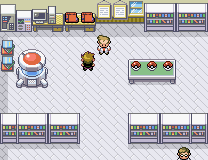
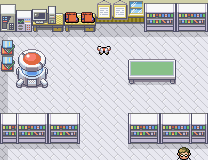
add oak with pokemon, reset oaks lab if it loses focus, update and animate pokeballs, fix js that doesn't run in browsersource

diff --git a/src/pokemon/Pokeballs.jsx b/src/pokemon/Pokeballs.jsx
@@ -1,4 +1,4 @@
-import React, {useState, useEffect} from 'react';
+import React, {useState, useEffect, useRef} from 'react';
 import styled from 'styled-components';
 import PokemonFusion from './PokemonFusion';
 import { getUniqueStarters } from './FusionHelpers';
@@ -16,6 +16,26 @@ const ClicksOuter = styled.div`
 `;
 const Pokeball = styled.div`
   width: 33%;
+  display: flex;
+  justify-content: center;
+  user-select: none;
+  user-drag: none;
+`;
+const PokeballImage = styled.img`
+  object-fit: cover;
+  width: 55px;
+  height: 100%;
+  filter: blur(1px);
+  user-drag: none;
+  &.open{
+    object-position: right;
+  }
+  &.closed{
+    object-position: left;
+  }
+  &.opening{
+    object-position: center;
+  }
 `;
 
 
@@ -36,6 +56,9 @@ function Pokeballs(props){
   const [audio2, setAudio2] = useState(null);
   const [audio3, setAudio3] = useState(null);
   const [curSelection, setCurSelection] = useState(null);
+  const _pokeball1 = useRef(null);
+  const _pokeball2 = useRef(null);
+  const _pokeball3 = useRef(null);
   useEffect(() => {
     setMyStarters(getUniqueStarters());
   }, [])
@@ -47,37 +70,76 @@ function Pokeballs(props){
     setAudio3(new Audio(`./fused/${myStarters[2].pkmn1}/${myStarters[2].pkmn1}.${myStarters[2].pkmn2}.mp3`));
   }, [myStarters])
 
+  function animatePokeball(pokeballRef, direction){
+    const pokeball = pokeballRef.current;
+    const curOpenState = pokeball.classList.contains('closed') ? 'closed' : 'open';
+    if( (direction === 'closed' && curOpenState === 'closed') || (direction === 'open' && curOpenState === 'open') ){
+      return;
+    } else {
+      pokeball.classList.add('opening');
+      setTimeout(function() { 
+        if (pokeball.classList.contains('closed')){
+          pokeball.classList.remove('closed');
+          pokeball.classList.remove('opening');
+          pokeball.classList.add('open');
+        }
+        else {
+          pokeball.classList.remove('opening');
+          pokeball.classList.remove('open');
+          pokeball.classList.add('closed');
+        }
+      }, 100);
+    }
+
+  }
+
   function toggleStarters(selection){
     if(selection === 1){
       setCurSelection(1);
       if(starter1Showing){
-        setStarter1Showing(false)
+        setStarter1Showing(false);
+        animatePokeball(_pokeball1, 'closed');
       } else {
-        setStarter1Showing(true)
+        setStarter1Showing(true);
+        animatePokeball(_pokeball1, 'open');
         audio1.play();
       }
       setStarter2Showing(false);
+      animatePokeball(_pokeball2, 'closed');
+
       setStarter3Showing(false);
+      animatePokeball(_pokeball3, 'closed');
     }
     if(selection === 2){
       setCurSelection(2);
       setStarter1Showing(false);
+      animatePokeball(_pokeball1, 'closed');
       if(starter2Showing){
-        setStarter2Showing(false)
+        setStarter2Showing(false);
+        animatePokeball(_pokeball2, 'closed');
       } else {
+        animatePokeball(_pokeball2, 'open');
         setStarter2Showing(true)
         audio2.play();
       }
       setStarter3Showing(false);
+      animatePokeball(_pokeball3, 'closed');
     }
     if(selection === 3){
       setCurSelection(3);
+
       setStarter1Showing(false);
+      animatePokeball(_pokeball1, 'closed');
+
       setStarter2Showing(false);
+      animatePokeball(_pokeball2, 'closed');
+
       if(starter3Showing){
-        setStarter3Showing(false)
+        setStarter3Showing(false);
+        animatePokeball(_pokeball3, 'closed');
       } else {
         setStarter3Showing(true)
+        animatePokeball(_pokeball3, 'open');
         audio3.play();
       }
     }
@@ -85,9 +147,9 @@ function Pokeballs(props){
   
   return(
     <ClicksOuter>
-      <Pokeball onClick={() =>  toggleStarters(1)}/>
-      <Pokeball onClick={() =>  toggleStarters(2)}/>
-      <Pokeball onClick={() =>  toggleStarters(3)}/>
+      <Pokeball onClick={() =>  toggleStarters(1)}><PokeballImage ref={_pokeball1} className="closed" src="/images/pokeball.png " /></Pokeball>
+      <Pokeball onClick={() =>  toggleStarters(2)}><PokeballImage ref={_pokeball2} className="closed" src="/images/pokeball.png " /></Pokeball>
+      <Pokeball onClick={() =>  toggleStarters(3)}><PokeballImage ref={_pokeball3} className="closed" src="/images/pokeball.png " /></Pokeball>
       <PokemonOuter>
         {(starter1Showing || starter2Showing || starter3Showing) && <PokedexH pkmn1={myStarters[curSelection-1].pkmn1} pkmn2={myStarters[curSelection-1].pkmn2}/>}
         {starter1Showing && <PokemonFusion pkmn1={myStarters[0].pkmn1} pkmn2={myStarters[0].pkmn2} /> }

diff --git a/src/App.jsx b/src/App.jsx
@@ -38,6 +38,7 @@ const PokemonOuter = styled.div`
 function App() {
   const obs = new ObsWebSocket();
   const [activeScene, setActiveScene] = useState(null)
+  const [oakWithPkmn, setOakWithPkmn] = useState(false);
 
   useEffect(() => {
     obs.connect({
@@ -57,11 +58,19 @@ function App() {
     });
   }, [])
 
+  useEffect(() => {
+    if(activeScene == 'OakIntroPkmn'){
+      setOakWithPkmn(true);
+    } else {
+      setOakWithPkmn(false);
+    }
+  }, [activeScene])
+
   return (
     <PokemonOuter className="App">
-      {activeScene == 'OakIntro' && <Intro />}
-      <Pokeballs />
-      <div className="bg"><img src="/images/oakslab.png" alt="" /></div>
+      {(activeScene == 'OakIntro'  || activeScene === 'OakIntroPkmn' || activeScene === 'OakIntro-Zoom') && <Intro withPkmn={oakWithPkmn}/>}
+      {activeScene ==='OaksLab' && <Pokeballs />}
+      <div draggable="false" className="bg"><img src="/images/oakslab.png" alt="" /></div>
     </PokemonOuter>
   );
 }

diff --git a/src/pokemon/FusionHelpers.js b/src/pokemon/FusionHelpers.js
@@ -60,7 +60,7 @@ function getFusionName(pkmn1, pkmn2) {
     name = prefix.slice(0, prefix.length - 2) + suffix;
   } else if (prefix.slice(-1) === suffix.slice(0, 1)) {
     name = prefix.slice(0, prefix.length - 1) + suffix;
-  } else if (prefix?.slice(-1) === ".") {
+  } else if (prefix.slice(-1) === '.') {
     name = prefix + " " + suffix[0].toUpperCase() + suffix.slice(1);
   } else {
     name = prefix + suffix;
@@ -123,12 +123,11 @@ function getRivalStarter(starterChoiceType){
     starter1 =Math.floor(Math.random() * rival.length);
     starter2 =Math.floor(Math.random() * rival.length);
     rivalTypes = getFusionTypes(rival[starter2], rival[starter1]);
-    if(weaknesses.includes(rivalTypes[0]?.type)){
+    if(weaknesses.includes(rivalTypes[0].type)){
       noAdvantage = false;
     }
   }
   const rivalObj = {pkmn1: rival[starter1], pkmn2: rival[starter2], types:rivalTypes};
-  console.log(rivalObj);
   return rivalObj
 }
 

diff --git a/src/intro/Intro.jsx b/src/intro/Intro.jsx
@@ -45,13 +45,17 @@ const OakBody = styled.img`
   left: 520px;
   top: 200px;
   z-index: 11;
+  &.with-pkmn {
+    left: 570px;
+    top: 190px;
+  }
 `;
 
-function Intro(){
+function Intro({withPkmn}){
   return(
     <IntroBackground>
       <IntroPedestal />
-        <OakBody src="/images/oaksbody-headless.png" alt="" />
+        <OakBody className={`${withPkmn ? 'with-pkmn' : 'default'}`}src="/images/oaksbody-headless.png" alt="" />
       <IntroText />
     </IntroBackground>
   );
